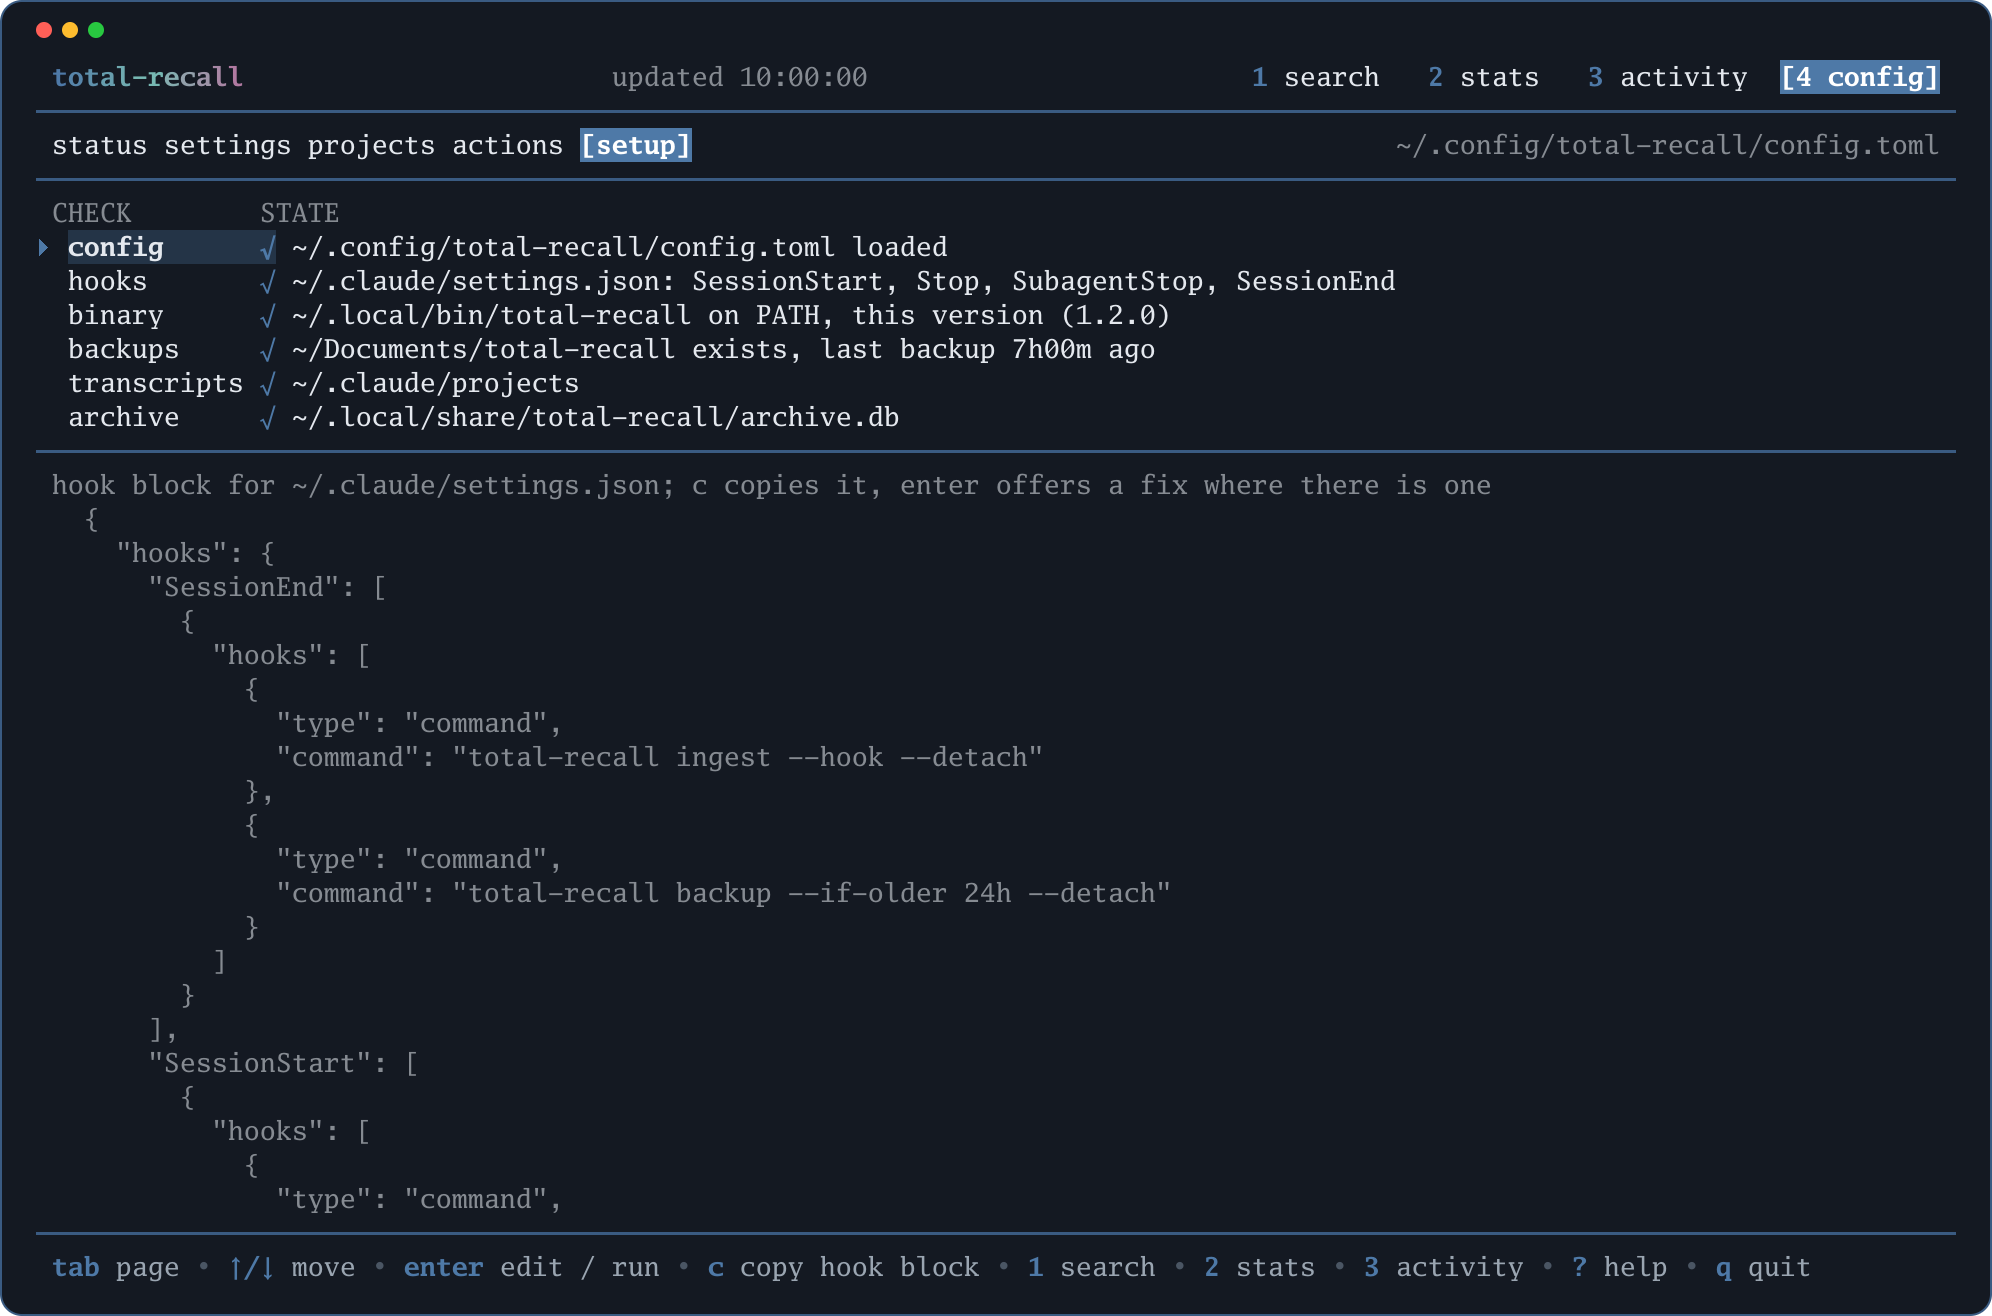
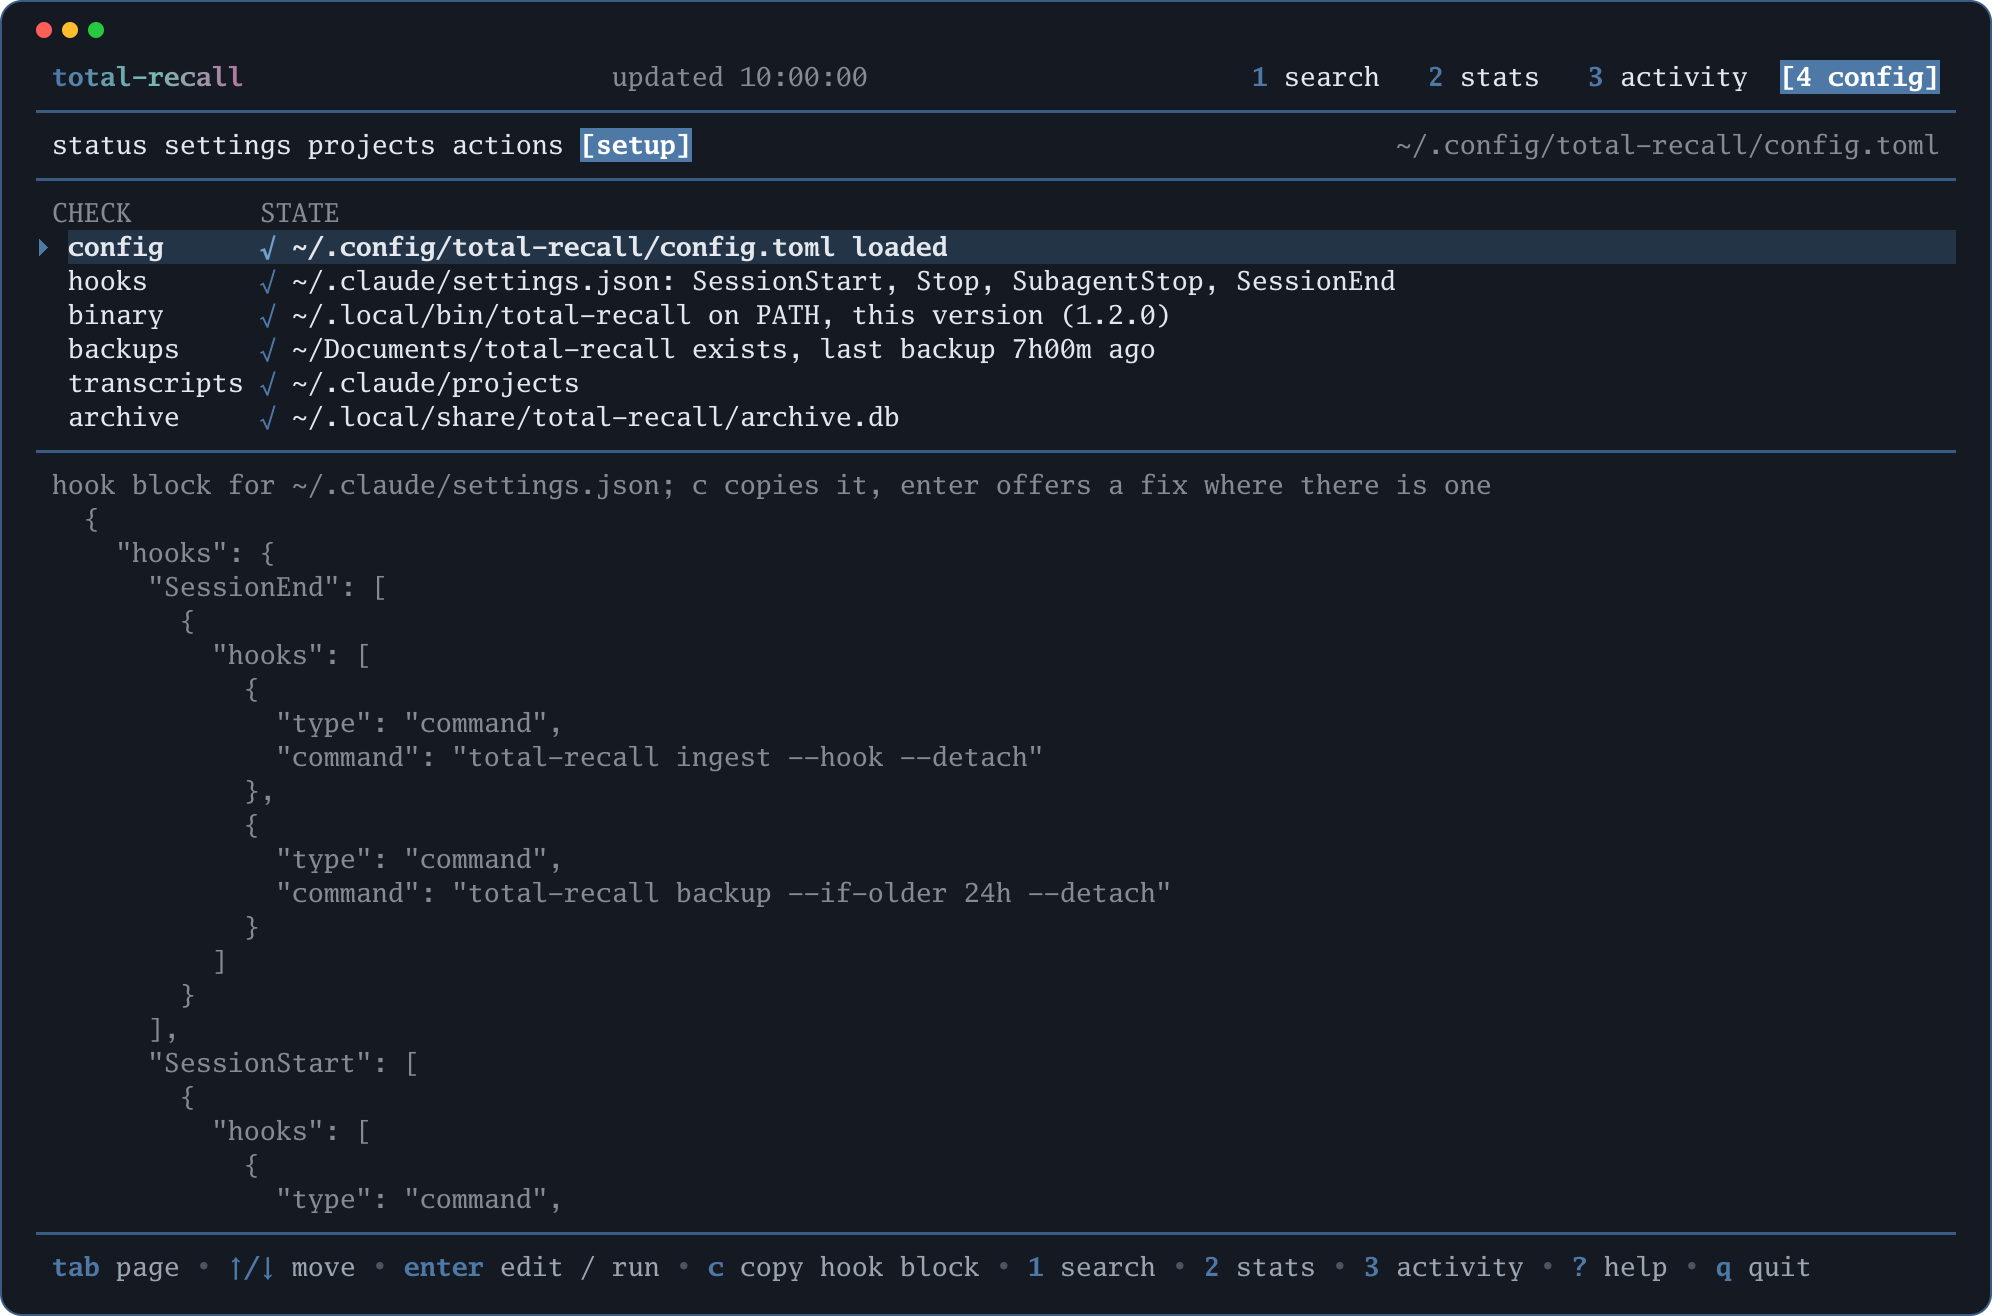
fix(tui): selection background on the config pages (#217)
On the settings, actions and setup pages the selected row lost its background behind colored or bold text, and accent colors had about 3:1 contrast on it. The pages now share rowStyle with the projects page: full-width background and colors through Theme.OnSelection.

Closes #216

Changed region(s): [[0.1245, 0.1558, 0.996, 0.2181]]

diff --git a/internal/tui/configview/selection_test.go b/internal/tui/configview/selection_test.go
@@ -1,0 +1,114 @@
+package configview
+
+import (
+	"image/color"
+	"strings"
+	"testing"
+	"unicode/utf8"
+
+	tea "charm.land/bubbletea/v2"
+
+	"github.com/seletz/total-recall/internal/tui/theme"
+	"github.com/seletz/total-recall/internal/tui/tuitest"
+)
+
+// nextBackground returns the background after the SGR parameters params
+// of a sequence, given the background cur before it: a reset clears it,
+// a 48;2 sets it, a 38 colour is skipped.
+func nextBackground(cur, params string) string {
+	parts := strings.Split(params, ";")
+	for i := 0; i < len(parts); i++ {
+		switch parts[i] {
+		case "", "0", "49":
+			cur = ""
+		case "38":
+			if i+1 < len(parts) && parts[i+1] == "2" {
+				i += 4
+			}
+		case "48":
+			if i+4 < len(parts) && parts[i+1] == "2" {
+				cur = strings.Join(parts[i:i+5], ";")
+				i += 4
+			}
+		}
+	}
+	return cur
+}
+
+// requireBackdrop checks that the background bg is drawn behind every
+// visible cell of line from its first background on: a styled segment
+// ends with a reset, so every segment after it must set the background
+// again.
+func requireBackdrop(t *testing.T, line, bg string) {
+	t.Helper()
+	cur, started := "", false
+	rest := line
+	for len(rest) > 0 {
+		if strings.HasPrefix(rest, "\x1b[") {
+			end := strings.IndexByte(rest, 'm')
+			if end < 0 {
+				t.Fatalf("unterminated sequence in %q", line)
+			}
+			cur = nextBackground(cur, rest[2:end])
+			if cur == bg {
+				started = true
+			}
+			rest = rest[end+1:]
+			continue
+		}
+		r, size := utf8.DecodeRuneInString(rest)
+		if started && cur != bg {
+			t.Errorf("%q is drawn without the background %s: %q", string(r), bg, line)
+			return
+		}
+		rest = rest[size:]
+	}
+	if !started {
+		t.Errorf("line has no background %s: %q", bg, line)
+	}
+}
+
+// TestSelectedRowKeepsBackground checks the marked row of the settings,
+// actions and setup pages on either background: the background runs over
+// the whole row, and coloured text keeps a colour that reads on it.
+func TestSelectedRowKeepsBackground(t *testing.T) {
+	for _, tt := range []struct {
+		name string
+		bg   color.Color
+		dark bool
+	}{
+		{"dark", color.Black, true},
+		{"light", color.White, false},
+	} {
+		t.Run(tt.name, func(t *testing.T) {
+			th := theme.New(tt.dark)
+			bg := sgr(48, th.Selection)
+			accent := sgr(38, th.OnSelection(th.Accent))
+			warn := sgr(38, th.OnSelection(th.Warn))
+
+			h := newTestEnv(t, "")
+			h.writeSettings(t, "SessionStart", "Stop", "SubagentStop")
+			h.found, h.exe, h.version = h.home+"/bin/total-recall", h.home+"/bin/total-recall", "1.2.0"
+			start := func(keys ...string) Model {
+				m := drive(t, New(h.options(t)), keys...)
+				return tuitest.Send(t, m, tea.BackgroundColorMsg{Color: tt.bg}).(Model)
+			}
+
+			m := start("tab")
+			line := rawLine(t, m, "▸")
+			requireBackdrop(t, line, bg)
+			requireStyled(t, line, "file", accent, bg)
+
+			m = start("tab", "tab", "tab")
+			line = rawLine(t, m, "▸")
+			requireBackdrop(t, line, bg)
+
+			m = start("shift+tab")
+			requireBackdrop(t, rawLine(t, m, "▸"), bg)
+			m = press(t, m, "j")
+			line = rawLine(t, m, "▸")
+			requireBackdrop(t, line, bg)
+			requireStyled(t, rawLine(t, m, "lacks SessionEnd"), "×", warn)
+		})
+	}
+}

diff --git a/internal/tui/configview/rowstyle.go b/internal/tui/configview/rowstyle.go
@@ -1,0 +1,66 @@
+package configview
+
+import (
+	"image/color"
+	"strings"
+
+	"charm.land/lipgloss/v2"
+
+	"github.com/seletz/total-recall/internal/project"
+	"github.com/seletz/total-recall/internal/tui/theme"
+)
+
+// rowStyle draws one row of a list or a form. A marked row sets its
+// background on every segment: a styled segment ends with a reset, so a
+// style around the finished row would stop at the first one. Colours on a
+// marked row are moved to read on its background (theme.OnSelection).
+type rowStyle struct {
+	th     theme.Theme
+	marked bool
+	// text is the plain text of the row, muted its secondary text, strong
+	// its bold text.
+	text, muted, strong lipgloss.Style
+}
+
+// newRowStyle returns the style of a row, marked or not.
+func newRowStyle(th theme.Theme, marked bool) rowStyle {
+	if marked {
+		return rowStyle{th: th, marked: true, text: th.Selected, muted: th.Selected.Bold(false).Faint(true), strong: th.Selected}
+	}
+	return rowStyle{th: th, text: lipgloss.NewStyle(), muted: th.Muted, strong: th.Strong}
+}
+
+// on is the style of text in the theme colour c, already toned: on a
+// marked row c is moved to read on the selection.
+func (s rowStyle) on(c color.Color) lipgloss.Style {
+	if s.marked {
+		c = s.th.OnSelection(c)
+	}
+	return s.text.Foreground(c)
+}
+
+// name is the style of a project name in colour c, toned for the
+// background and legible on a marked row; nil is the plain text.
+func (s rowStyle) name(c color.Color) lipgloss.Style {
+	if c == nil {
+		return s.text
+	}
+	return s.on(s.th.Tone(c))
+}
+
+// swatch is the colour field of a definition: a block in its colour c
+// when one is configured, a dot for the automatic colour.
+func (s rowStyle) swatch(configured string, c color.Color) string {
+	if hex, err := project.ParseColor(configured); err != nil || hex == "" {
+		return s.muted.Render("·")
+	}
+	return s.name(c).Render("■")
+}
+
+// fill pads a row to width in the style of the row.
+func (s rowStyle) fill(line string, width int) string {
+	if !s.marked {
+		return line
+	}
+	return line + s.text.Render(strings.Repeat(" ", max(width-lipgloss.Width(line), 0)))
+}

diff --git a/internal/tui/configview/projects.go b/internal/tui/configview/projects.go
@@ -15,7 +15,6 @@ import (
 	"github.com/seletz/total-recall/internal/config"
 	"github.com/seletz/total-recall/internal/project"
 	"github.com/seletz/total-recall/internal/store"
-	"github.com/seletz/total-recall/internal/tui/theme"
 	"github.com/seletz/total-recall/internal/tui/zone"
 )
 
@@ -843,52 +842,6 @@ func last(m *Model, t time.Time) string {
 		return "unknown"
 	}
 	return age(m.now(), t)
-}
-
-// rowStyle draws one row of the list or the form. A marked row sets its
-// background on every segment: a styled segment ends with a reset, so a
-// style around the finished row would stop at the first one.
-type rowStyle struct {
-	th     theme.Theme
-	marked bool
-	// text is the plain text of the row, muted its secondary text.
-	text, muted lipgloss.Style
-}
-
-func newRowStyle(th theme.Theme, marked bool) rowStyle {
-	if marked {
-		return rowStyle{th: th, marked: true, text: th.Selected, muted: th.Selected.Bold(false).Faint(true)}
-	}
-	return rowStyle{th: th, text: lipgloss.NewStyle(), muted: th.Muted}
-}
-
-// name is the style of a project name in colour c, toned for the
-// background and legible on a marked row; nil is the plain text.
-func (s rowStyle) name(c color.Color) lipgloss.Style {
-	if c == nil {
-		return s.text
-	}
-	if s.marked {
-		return s.text.Foreground(s.th.OnSelection(s.th.Tone(c)))
-	}
-	return s.text.Foreground(s.th.Tone(c))
-}
-
-// swatch is the colour field of a definition: a block in its colour c
-// when one is configured, a dot for the automatic colour.
-func (s rowStyle) swatch(configured string, c color.Color) string {
-	if hex, err := project.ParseColor(configured); err != nil || hex == "" {
-		return s.muted.Render("·")
-	}
-	return s.name(c).Render("■")
-}
-
-// fill pads a row to width in the style of the row.
-func (s rowStyle) fill(line string, width int) string {
-	if !s.marked {
-		return line
-	}
-	return line + s.text.Render(strings.Repeat(" ", max(width-lipgloss.Width(line), 0)))
 }
 
 // pinColors pins the configured colours in the shared chart.Colors before

diff --git a/internal/tui/configview/setup.go b/internal/tui/configview/setup.go
@@ -218,22 +218,20 @@ func (p setupPage) view(m *Model, width, height int) string {
 		if i == p.row {
 			mark = m.th.Mark.Render("▸")
 		}
-		sign := m.th.Error.Render(signFail)
+		st := newRowStyle(m.th, i == p.row)
+		sign := st.on(m.th.Warn).Render(signFail)
 		switch {
 		case c.ok && c.warn:
-			sign = m.th.Error.Render(signWarn)
+			sign = st.on(m.th.Warn).Render(signWarn)
 		case c.ok:
-			sign = m.th.AccentText.Render(signOK)
+			sign = st.on(m.th.Accent).Render(signOK)
 		}
-		text := c.text
+		text := st.text.Render(c.text)
 		if c.fix != "" {
-			text += "  " + m.th.AccentText.Render("enter: "+c.fix)
+			text += st.text.Render("  ") + st.on(m.th.Accent).Render("enter: "+c.fix)
 		}
-		line := pad(c.name, 11) + " " + sign + " " + text
-		if i == p.row {
-			line = m.th.Selected.Render(pad(line, width-2))
-		}
-		lines = append(lines, m.line(mark+" "+line, width))
+		line := st.text.Render(pad(c.name, 11)+" ") + sign + st.text.Render(" ") + text
+		lines = append(lines, m.line(mark+" "+st.fill(m.line(line, width-2), width-2), width))
 	}
 	lines = append(lines, m.th.Rule.Render(strings.Repeat("─", width)))
 	switch {

diff --git a/internal/tui/configview/actions.go b/internal/tui/configview/actions.go
@@ -357,19 +357,18 @@ func (p actionsPage) view(m *Model, width, height int) string {
 		if i == p.row {
 			mark = m.th.Mark.Render("▸")
 		}
-		name := pad(a.name, nameW)
-		summary := a.summary
+		st := newRowStyle(m.th, i == p.row)
+		name := st.text.Render(pad(a.name, nameW))
+		summary := st.text.Render(a.summary)
 		switch {
 		case a.disabled != "":
-			name, summary = m.th.Muted.Render(name), m.th.Muted.Render(summary+" · "+a.disabled)
+			name = st.muted.Render(pad(a.name, nameW))
+			summary = st.muted.Render(a.summary + " · " + a.disabled)
 		case a.writes:
-			name = m.th.Strong.Render(name)
+			name = st.strong.Render(pad(a.name, nameW))
 		}
-		line := name + "  " + summary
-		if i == p.row {
-			line = m.th.Selected.Render(pad(line, width-2))
-		}
-		lines = append(lines, m.line(mark+" "+line, width))
+		line := name + st.text.Render("  ") + summary
+		lines = append(lines, m.line(mark+" "+st.fill(m.line(line, width-2), width-2), width))
 	}
 	lines = append(lines, m.th.Rule.Render(strings.Repeat("─", width)))
 	status := m.th.Muted.Render("enter runs the marked action; actions that write ask first")

diff --git a/internal/tui/configview/settings.go b/internal/tui/configview/settings.go
@@ -428,21 +428,17 @@ func (p settingsPage) view(m *Model, width, height int) string {
 		if i == p.row {
 			mark = m.th.Mark.Render("▸")
 		}
-		value := r.value
+		st := newRowStyle(m.th, i == p.row)
+		value := st.text.Render(pad(m.line(r.value, valueW), valueW))
 		if r.value == "" {
-			value = m.th.Muted.Render(`""`)
+			value = st.muted.Render(pad(`""`, valueW))
 		}
-		origin := string(r.origin)
+		origin := st.muted.Render(string(r.origin))
 		if r.origin != config.OriginDefault {
-			origin = m.th.AccentText.Render(origin)
-		} else {
-			origin = m.th.Muted.Render(origin)
+			origin = st.on(m.th.Accent).Render(string(r.origin))
 		}
-		line := pad(r.label, keyW) + "  " + pad(m.line(value, valueW), valueW) + "  " + origin
-		if i == p.row {
-			line = m.th.Selected.Render(line)
-		}
-		lines = append(lines, m.line(mark+" "+line, width))
+		line := st.text.Render(pad(r.label, keyW)+"  ") + value + st.text.Render("  ") + origin
+		lines = append(lines, m.line(mark+" "+st.fill(m.line(line, width-2), width-2), width))
 	}
 	for len(lines) < height-bottomRows {
 		lines = append(lines, "")

diff --git a/docs/reference/90-aenderungen.md b/docs/reference/90-aenderungen.md
@@ -72,6 +72,7 @@ Dazu kamen 3 207 Sicherungskopien als Blobs, 199 MiB wie geliefert, 71 MiB gespe
 
 - **Letztes Backup nach Zeitpunkt statt nach Dateiname** ([#209](https://github.com/seletz/total-recall/issues/209)). Lagen an einem Tag `archive-YYYY-MM-DD-1505.db.gz` (15:05) und ein späteres `archive-YYYY-MM-DD.db.zst` (22:03), galt das ältere als neuestes. `status`, Config-Seite, Setup, `backup --if-older` und die Aufbewahrung (die letzte Kopie eines Monats) bestimmen den Zeitpunkt jetzt einheitlich, in jedem Format: Datum und Uhrzeit aus dem Namen, ohne Uhrzeit im Namen die Änderungszeit der Datei. Liegt sie nicht auf dem Tag des Namens, etwa nach dem Kopieren auf einen neuen Rechner, zählt der Beginn dieses Tages. Dateien mit unmöglichem Datum im Namen (`archive-2026-13-01.db.zst`) gelten nicht mehr als Backup; die Aufbewahrung lässt sie liegen.
 - **Text der Aktion `backup`** in der Config-Ansicht: Er nennt jetzt die Backups, und `keep_monthly = 0` heißt dort richtig `all monthly backups` statt `0 monthly`, denn `0` behält alle Monatskopien.
+- **Markierte Zeile auf Settings, Actions und Setup** ([#216](https://github.com/seletz/total-recall/issues/216)). Der Hintergrund reißt hinter farbigem oder fettem Text nicht mehr ab, sondern läuft über die ganze Zeile, und farbige Schrift auf der Markierung bleibt lesbar.
 
 ## v1.3.1
 
